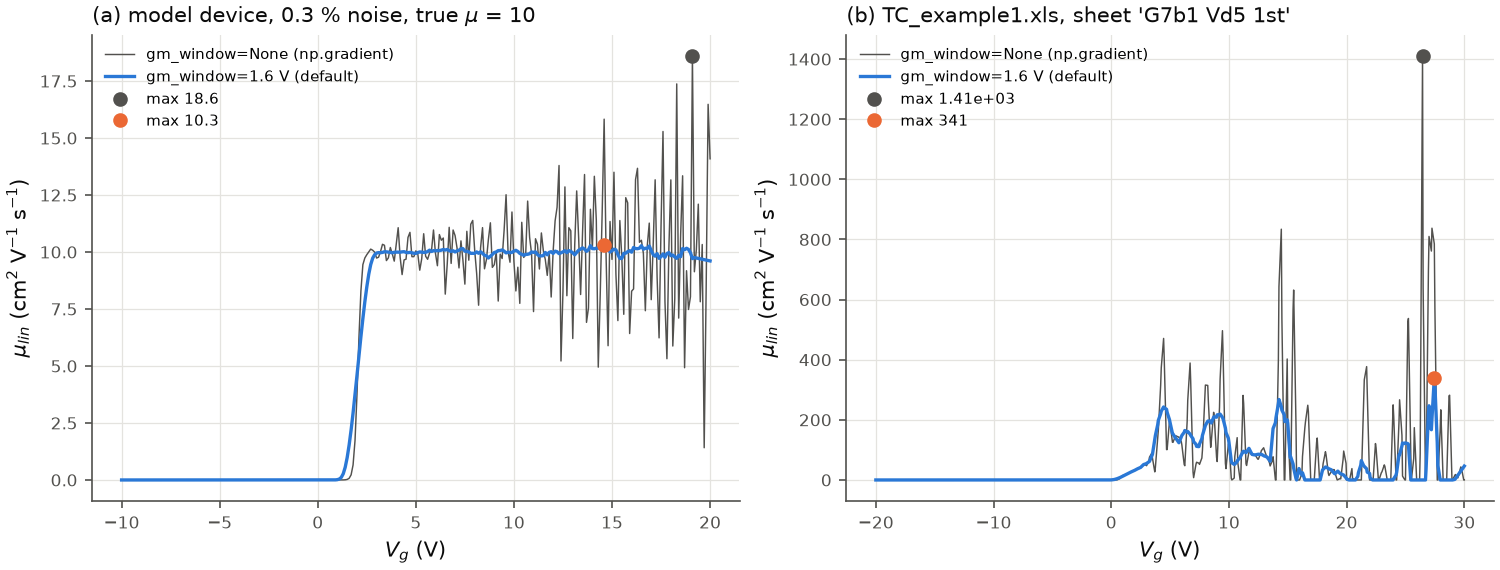
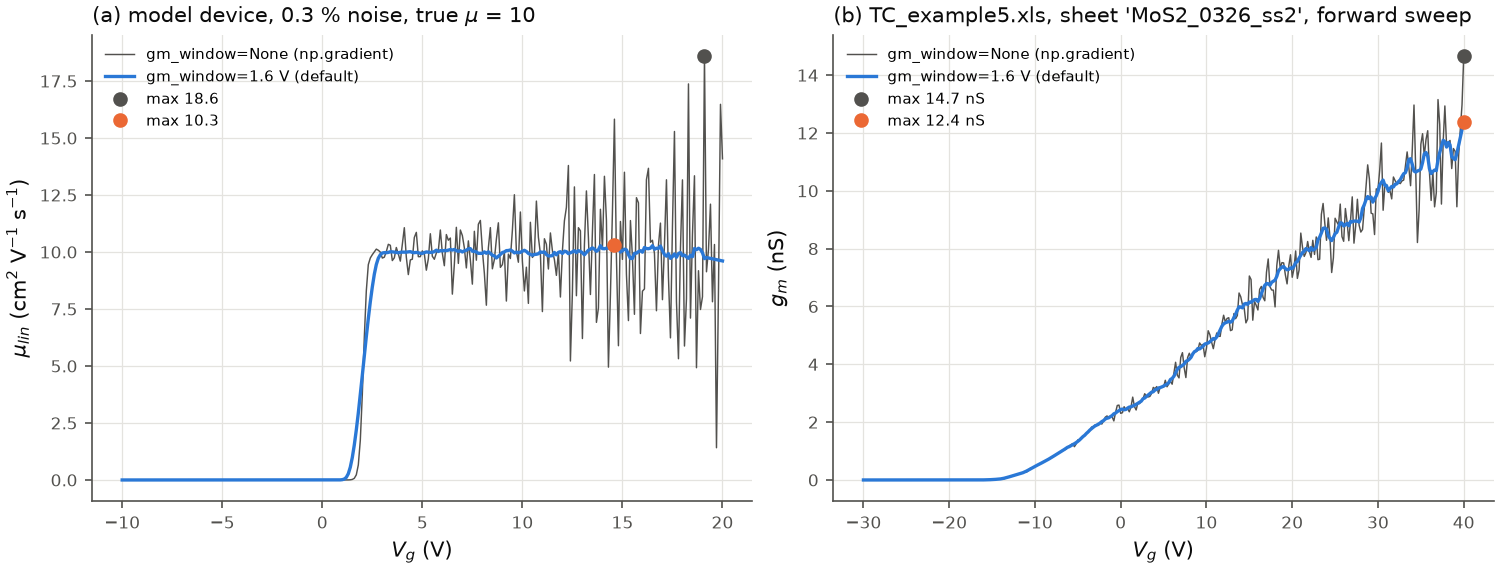
Resolve the open decisions in the documentation, blank the xls owner string
- changes_from_original.md: B8 justified by what it fixes; the decision table
  becomes 'Known limitations of the default rules' (L1-L8) with the option and
  the documenting page for each; cross-references updated
- gm_smoothing figure: panel (b) shows a well-behaved measured MoS2 curve
- examples/data/*.xls: owner name in the WRITEACCESS record replaced by spaces
  (cell contents unchanged)

diff --git a/docs/figures/make_mobility.py b/docs/figures/make_mobility.py
@@ -6,7 +6,7 @@ import matplotlib.pyplot as plt
 import numpy as np
 
 from common import DATA, DEVICE, INK, INK_2, MU, SERIES, linear_curve, saturation_curve, save, style_axes
-from transistor_iv import TransferSettings, analyze_transfer, read_clarius_transfer, read_conditions
+from transistor_iv import TransferSettings, analyze_transfer, read_clarius_transfer
 
 
 @dataclass
@@ -14,8 +14,9 @@ class AppConfig:
     noise_rel: float = 0.003
     seed: int = 3
     gm_window: float = 1.6       # V, the default
-    real_file: str = "TC_example1.xls"
-    real_sheet: int = 1
+    real_file: str = "TC_example5.xls"   # MoS2 FET: smooth on-state, visible derivative noise
+    real_sheet: int = 38
+    real_segment: int = 1                # forward sweep -30 -> 40 V
     # window study printed by study(): random model devices, 0.2 V steps from -20 to 30 V, V_d = 0.1 V
     study_devices: int = 60
     study_windows: tuple = (None, 1.6, 3.0)
@@ -27,18 +28,24 @@ def fig_gm(cfg):
     raw = analyze_transfer(c, DEVICE, TransferSettings(gm_window=None))
     smo = analyze_transfer(c, DEVICE, TransferSettings(gm_window=cfg.gm_window))
     real = read_clarius_transfer(DATA / cfg.real_file)[cfg.real_sheet]
-    dev = read_conditions(DATA / "Conditions.xls", eps_r=3.9)[cfg.real_sheet]
-    rr = analyze_transfer(real, dev, TransferSettings(gm_window=None))
-    rs = analyze_transfer(real, dev, TransferSettings(gm_window=cfg.gm_window))
+    rr = analyze_transfer(real, DEVICE, TransferSettings(segment=cfg.real_segment, gm_window=None))
+    rs = analyze_transfer(real, DEVICE, TransferSettings(segment=cfg.real_segment, gm_window=cfg.gm_window))
     fig, ax = plt.subplots(1, 2, figsize=(10, 3.8), constrained_layout=True)
-    for a, r0, r1, title in ((ax[0], raw, smo, f"(a) model device, {cfg.noise_rel * 100:g} % noise, true $\\mu$ = {MU:g}"),
-                             (ax[1], rr, rs, f"(b) {cfg.real_file}, sheet '{real.name}'")):
-        a.plot(r0.curves["v_g"], r0.curves["mu_lin"], color=INK_2, linewidth=0.7, label="gm_window=None (np.gradient)")
-        a.plot(r1.curves["v_g"], r1.curves["mu_lin"], color=SERIES[0], linewidth=1.6, label=f"gm_window={cfg.gm_window:g} V (default)")
-        a.plot(r0.v_gm_max, r0.mu_fe_max, "o", color=INK_2, ms=6, label=f"max {r0.mu_fe_max:.3g}")
-        a.plot(r1.v_gm_max, r1.mu_fe_max, "o", color=SERIES[1], ms=6, label=f"max {r1.mu_fe_max:.3g}")
-        style_axes(a, "$V_g$ (V)", r"$\mu_{lin}$ (cm$^2$ V$^{-1}$ s$^{-1}$)", title)
-        a.legend(fontsize=7, frameon=False, loc="upper left")
+    a = ax[0]
+    a.plot(raw.curves["v_g"], raw.curves["mu_lin"], color=INK_2, linewidth=0.7, label="gm_window=None (np.gradient)")
+    a.plot(smo.curves["v_g"], smo.curves["mu_lin"], color=SERIES[0], linewidth=1.6, label=f"gm_window={cfg.gm_window:g} V (default)")
+    a.plot(raw.v_gm_max, raw.mu_fe_max, "o", color=INK_2, ms=6, label=f"max {raw.mu_fe_max:.3g}")
+    a.plot(smo.v_gm_max, smo.mu_fe_max, "o", color=SERIES[1], ms=6, label=f"max {smo.mu_fe_max:.3g}")
+    style_axes(a, "$V_g$ (V)", r"$\mu_{lin}$ (cm$^2$ V$^{-1}$ s$^{-1}$)",
+               f"(a) model device, {cfg.noise_rel * 100:g} % noise, true $\\mu$ = {MU:g}")
+    a.legend(fontsize=7, frameon=False, loc="upper left")
+    a = ax[1]
+    a.plot(rr.curves["v_g"], rr.curves["gm"] * 1e9, color=INK_2, linewidth=0.7, label="gm_window=None (np.gradient)")
+    a.plot(rs.curves["v_g"], rs.curves["gm"] * 1e9, color=SERIES[0], linewidth=1.6, label=f"gm_window={cfg.gm_window:g} V (default)")
+    a.plot(rr.v_gm_max, rr.gm_max * 1e9, "o", color=INK_2, ms=6, label=f"max {rr.gm_max * 1e9:.3g} nS")
+    a.plot(rs.v_gm_max, rs.gm_max * 1e9, "o", color=SERIES[1], ms=6, label=f"max {rs.gm_max * 1e9:.3g} nS")
+    style_axes(a, "$V_g$ (V)", "$g_m$ (nS)", f"(b) {cfg.real_file}, sheet '{real.name}', forward sweep")
+    a.legend(fontsize=7, frameon=False, loc="upper left")
     save(fig, "gm_smoothing")
 
 

diff --git a/docs/changes_from_original.md b/docs/changes_from_original.md
@@ -32,7 +32,7 @@ regenerates those reference results from a copy of the original script. See [tes
 | B5 | the gap filling inserted a point whenever a gap exceeded 0.2 V, also by float round-off | a point within 1 % of a step of the next data point is not inserted | single-precision V_g (0.2000000x V) created points 3e-9 to 1e-6 V before the next one, whose round-off dominated the derivatives | TC_example5: 182 of 533 grid points affected; `vth_d2` moved by a median 36 V (it sat on round-off spikes), `vth_interpol` by 0.9 to 1.6 V (median), `vth_global` 0.6 to 0.7 V, SS by up to 85 % on single curves, mu_fe_max by a median 3 to 4 % (up to 45 %); TC_example2 (26 points): small changes on several curves, up to 33 V in `vth_sqrt` and 39 V in `vth_d2` on one curve each |
 | B6 | fit windows of `LINEAR_WINDOW_FOR_VTH` volts (and the 3 V search extension) converted to points with the nominal 0.2 V step | converted with the mean spacing of the actual grid | the parameter is documented in volts; with 0.25 V data (grid spacing alternating 0.2/0.05 V) the "5 V" window covered 3.1 V, on the 0.1 to 0.5 V list sweep 3 V | TC_example1: `vth_interpol` median 0.38 V (up to 8.3 V), `vth_global` 0.45 V, `vth_sqrt` 0.42 V (up to 68 V on one curve), `mu_sat_sqrt` 13 %; TC_example2: 0.04 to 0.16 V (median) |
 | B7 | SS region slice `[start:end]` dropped the last point of the region | `[start:end+1]` | off-by-one (the figure of the region used the inclusive end); a one-point region gave an empty array | none |
-| B8 | mu_FE,max = maximum of mu_lin from an unsmoothed `np.gradient` of the exactly interpolated current | g_m from local quadratic fits over `gm_window` = 1.6 V (Savitzky-Golay, 9 points on a 0.2 V grid); `gm_window=None` restores the unsmoothed derivative | the maximum of a noisy derivative selects the largest noise excursion and inflates mu_FE,max (classified as a bug by the earlier review; see D8) | mu_fe_max, with B5 applied: TC_example1 a median 2.7 x lower (up to 5.1 x, spiky on-currents), TC_example2 1.3 %, TC_example5 2 to 3 % (alone, without B5: 1.5 % and 6 to 7 %); also `gm_max`, `v_gm_max`, `vth_gm_tangent` |
+| B8 | mu_FE,max = maximum of mu_lin from an unsmoothed `np.gradient` of the exactly interpolated current | g_m from local quadratic fits over `gm_window` = 1.6 V (Savitzky-Golay, 9 points on a 0.2 V grid); `gm_window=None` restores the unsmoothed derivative | mu_FE,max is meant to be the maximum of the mobility curve, but the maximum of an unsmoothed derivative of the exactly interpolated (noisy) current selects the largest noise excursion, so the reported value is not the mobility maximum; the 1.6 V window removes point-to-point noise while keeping a peaked g_m within a few per cent (see [transconductance](transconductance_and_on_off.md#transconductance)) | mu_fe_max, with B5 applied: TC_example1 a median 2.7 x lower (up to 5.1 x, spiky on-currents), TC_example2 1.3 %, TC_example5 2 to 3 % (alone, without B5: 1.5 % and 6 to 7 %); also `gm_max`, `v_gm_max`, `vth_gm_tangent` |
 | B9 | V_d from the Settings block whenever the drain `Step` is `N/A`, the DrainV column only as fallback | the DrainV column when present (constant within 1 mV or 1 %), with a warning if the Settings block disagrees | the column is the applied bias | one sheet of TC_example2 (Settings 20 V, column and sheet name 10 V): mu_fe_max x 2 |
 | B10 | `results.csv` written with `np.savetxt(delimiter=",")` | written with pandas (CSV quoting) | sheet names with commas (`ND2515(2,6)Vd10 2nd`) shifted the columns | TC_example2 table readable |
 
@@ -53,8 +53,8 @@ regenerates those reference results from a copy of the original script. See [tes
 | O5 | `cc_interpolation` | `"linear"` in I_d | `"log"` in log10\|I_d\| | the current is exponential near a subthreshold criterion |
 | O6 | `d2_window` | `None`: `np.gradient` twice | local quadratic fits over the window | noise; see [threshold voltage](threshold_voltage.md#second-derivative-vth_d2) |
 | O7 | `diagnostics` | off | regime flags (`flag_linear_regime`, `flag_saturation`, `flag_window_at_end`) and window sensitivities (`*_sens`: change when the windows are halved and doubled) | checks the validity conditions of each formula |
-| O8 | `mobility_vth` | `"vth_interpol"` for the point-wise mu_eff and mu_sat | any other V_th method | `vth_interpol` is a linear-regime value and fails on concave curves (D9) |
-| O9 | `gm_window=None` | (B8 is the default) | the original unsmoothed g_m | comparison with earlier results |
+| O8 | `mobility_vth` | `"vth_interpol"` for the point-wise mu_eff and mu_sat | any other V_th method | `vth_interpol` is a linear-regime value and fails on concave curves (L7) |
+| O9 | `gm_window=None` | (B8 is the default) | the original unsmoothed g_m | comparison with results of the original scripts |
 
 ## Design changes
 
@@ -74,33 +74,33 @@ regenerates those reference results from a copy of the original script. See [tes
 | C12 | options `DENOISE_CURRENT` (Gaussian filter and resampling), `REMOVE_OUTLIERS` (g_m outlier removal), `ANALYZE_*` switches, plot settings | not carried over | superseded by `gm_window` and `spline_smoothing`; functions are called individually; matplotlib settings belong to the caller |
 | C13 | table names `Vth_current`, ..., `u_FE(max)`; files `TransferCurve.csv`, `SubthresholdSwing.csv`, `MobilityFE.csv` (curves in ascending V_g) | `vth_current`, ..., `mu_fe_max`; `transfer_curves.csv`, `subthreshold_swing.csv`, `mobility_fe.csv` (interpolated curves in on-direction order, i.e. descending V_g for p-type) | Python identifiers; mapping in [batch processing](batch_processing.md#columns-of-resultscsv) |
 | C14 | ties between equal floating-point scores resolved by loop order | resolved towards the lowest V_g everywhere, as the original's loops did | identical results; stated for completeness |
-| C15 | no plausibility notes | notes (values unchanged) when \|I_d\| is not larger at the on end than at the off end (`polarity`), when SS was taken above 1 % of I_on (`ss_on_state`), when the `vth_interpol` window starts above the g_m maximum (`vth_interpol_window`), and when a fit window was truncated at the end of the sweep | the default rules can return meaningless numbers on unsuitable curves (D9, D10) |
+| C15 | no plausibility notes | notes (values unchanged) when \|I_d\| is not larger at the on end than at the off end (`polarity`), when SS was taken above 1 % of I_on (`ss_on_state`), when the `vth_interpol` window starts above the g_m maximum (`vth_interpol_window`), and when a fit window was truncated at the end of the sweep | the default rules can return meaningless numbers on unsuitable curves (L7, L8) |
 
 ## Additions
 
 `vth_gm_tangent` (tangent at maximum g_m, a seventh threshold voltage next to the original
-six); D_it = (C_i/q)[SS/(ln(10) k_B T/q) - 1] in cm⁻² eV⁻¹, NaN below the thermionic limit
-(an earlier specification of this formula was not the standard one); hysteresis analysis
+six); D_it = (C_i/q)[SS/(ln(10) k_B T/q) - 1] in cm⁻² eV⁻¹, NaN below the thermionic limit;
+hysteresis analysis
 (`analyze_hysteresis`: threshold shift for every method, N_trap, loop area);
 `fe_mobility_from_sqrt_fit` (mu_FE at a stated V_g from the square-root fit) and `gm_at`;
 `ss_decade_span`, `ss_current_window`, `robust_off_level`; `on_resistance` and
 `summarize_output`; CSV readers and writer; the synthetic compact model
 `transistor_iv.synthetic`.
 
-## For the author's decision
+## Known limitations of the default rules
 
-These defaults follow the original scripts but are physically questionable, or are choices
-made in this rebuild. Each is documented as a pitfall on its page.
+The defaults below are the original scripts' rules and are kept. Each has a known
+limitation on some curves; an option addresses it, and the page in the last column documents
+the pitfall. Where the package can detect the situation, `TransferResult.notes` says so
+(values unchanged).
 
-| # | item | issue | current default | possible change |
+| # | default rule (original, kept) | limitation | option that addresses it | documented in |
 |---|---|---|---|---|
-| D1 | `vth_logderivative` | the steepest subthreshold point is not a threshold voltage (it lies below the strong-inversion threshold: 1.6 V for a model V_th of 2 V) | reported as a V_th | rename (e.g. "turn-on voltage") or drop from the V_th set |
-| D2 | `ss_floor = 60` mV/dec | hides real sub-60 swings and can report a value far above the true one (45 mV/dec model device: 118.9 reported) | 60 | `None`, or the thermal limit at `temperature` |
-| D3 | linear extrapolations report the intercept | in the linear regime the intercept is V_th + V_d/2; with V_d = 5 to 10 V (TC_example1/2) that is 2.5 to 5 V | intercept (`vd_correction=False`) | `vd_correction=True` |
-| D4 | regime validity | `vth_sqrt` and `mu_sat_sqrt` are computed in the linear regime too (e.g. -37 V on a TC_example2 curve); `mu_fe_max` applies the linear formula at V_d = 5 to 10 V; the point-wise mu_eff and mu_sat use the linear-regime `vth_interpol` | computed without checks | `diagnostics=True` by default, or NaN outside the regime |
-| D5 | I_off = smallest positive \|I_d\| | the deepest noise sample, not the off level (two orders of magnitude in the [on/off example](transconductance_and_on_off.md#onoff-ratio)) | `"min"` | `"robust"` |
-| D6 | unsmoothed second derivative | on noisy data the maximum is a noise peak in the on-state (bundled TC_example2 first sheet: a spike at 18.4 V) | `d2_window=None` | `d2_window` of about 1 V |
-| D7 | B6 (window in volts via the mean grid spacing) | classified as a bug fix; on list sweeps with changing steps a window is still a fixed number of grid points | mean spacing | please confirm the classification |
-| D8 | B8 (g_m smoothing on by default, `gm_window = 1.6` V) | the original computes what it states (the maximum of `np.gradient`); smoothing changes the estimator, so this can also be seen as a design change. The window was chosen here (9-point Savitzky-Golay on 0.2 V steps); wider windows remove more noise but flatten a peaked g_m (-4 % at 1.6 V, -8 % at 3 V for mobility degradation theta = 0.05 1/V) | smoothing on, 1.6 V | `gm_window=None` as default (the original), or another window |
-| D9 | `vth_interpol` on concave curves | with mobility degradation the most linear window moves into the on-state and the intercept drops far below V_th (model, V_th = 2 V: -0.3 V at theta = 0.01 1/V, -2.2 V at 0.02, -6.5 V at 0.05; `vth_global` and `vth_gm_tangent` stay within 0.2 V); mu_eff and mu_sat inherit it | kept, with the `vth_interpol_window` note | a different window rule, or `mobility_vth="vth_gm_tangent"` |
-| D10 | subthreshold region = longest run of grid points | on the 0.2/0.05 V grid of 0.25 V data, single dips of the log slope can split the real subthreshold run, and the longest run then lies in the on-state: TC_example1 `G7d1 Vd5 1st` gives SS = 3464 mV/dec (also in the original; 205 mV/dec with `grid_step=None`, 107.5 with `ss_method="decade_span"`) | kept, with the `ss_on_state` note | `grid_step=None` for data with steps of 0.2 V or more, or merge runs separated by single points |
+| L1 | `vth_logderivative`: V_g of the steepest log slope, reported with the threshold voltages | the steepest subthreshold point lies below the strong-inversion threshold (1.6 V for a model V_th of 2 V); it is a turn-on marker | compare with the other methods; `vth_current` for a subthreshold criterion | [threshold voltage](threshold_voltage.md#maximum-log-slope-vth_logderivative) |
+| L2 | `ss_floor = 60` mV/dec | hides real sub-60 swings and can report a value far above the true one (45 mV/dec model device: 118.9 reported) | `ss_floor=None`, or the thermal limit at `temperature` | [subthreshold swing](subthreshold_swing.md#pitfalls) |
+| L3 | linear extrapolations report the intercept | in the linear regime the intercept is V_th + V_d/2; with V_d = 5 to 10 V (TC_example1/2) that is 2.5 to 5 V | `vd_correction=True` | [threshold voltage](threshold_voltage.md#the-v_d2-correction-option) |
+| L4 | every formula is evaluated for every curve | `vth_sqrt` and `mu_sat_sqrt` are computed in the linear regime too (e.g. -37 V on a TC_example2 curve); `mu_fe_max` applies the linear formula at V_d = 5 to 10 V; the point-wise mu_eff and mu_sat use the linear-regime `vth_interpol` | `diagnostics=True` (regime flags), `mobility_vth` | [mobility](mobility.md#validity-and-pitfalls) |
+| L5 | I_off = smallest positive \|I_d\| | the deepest noise sample, not the off level (two orders of magnitude in the [on/off example](transconductance_and_on_off.md#onoff-ratio)) | `off_level="robust"` | [on/off ratio](transconductance_and_on_off.md#onoff-ratio) |
+| L6 | unsmoothed second derivative | on noisy data the maximum is a noise peak in the on-state (bundled TC_example2 first sheet: a spike at 18.4 V) | `d2_window` of about 1 V | [threshold voltage](threshold_voltage.md#second-derivative-vth_d2) |
+| L7 | `vth_interpol`: most linear window starting in or just above the subthreshold region | on concave curves (mobility degradation) the window moves into the on-state and the intercept drops far below V_th (model, V_th = 2 V: -0.3 V at theta = 0.01 1/V, -2.2 V at 0.02, -6.5 V at 0.05; `vth_global` and `vth_gm_tangent` stay within 0.2 V); mu_eff and mu_sat inherit it | compare with `vth_global` / `vth_gm_tangent`; `mobility_vth`; note `vth_interpol_window` | [threshold voltage](threshold_voltage.md#linear-fit-next-to-the-subthreshold-region-vth_interpol) |
+| L8 | subthreshold region = longest run of grid points | on the 0.2/0.05 V grid of 0.25 V data, single dips of the log slope can split the real subthreshold run, and the longest run then lies in the on-state: TC_example1 `G7d1 Vd5 1st` gives SS = 3464 mV/dec (also in the original; 205 mV/dec with `grid_step=None`, 107.5 with `ss_method="decade_span"`) | `grid_step=None` for data with steps of 0.2 V or more, `ss_method`; note `ss_on_state` | [subthreshold swing](subthreshold_swing.md#pitfalls) |

diff --git a/docs/threshold_voltage.md b/docs/threshold_voltage.md
@@ -94,8 +94,8 @@ bends down above threshold; the most linear window is then a nearly straight str
 the on-state, and its intercept lies far below V_th: on the model device -0.3 V, -2.2 V and
 -6.5 V for theta = 0.01, 0.02 and 0.05 1/V (V_th = 2 V), panel (c). `analyze_transfer` adds the
 note `vth_interpol_window` when the window starts above the g_m maximum; compare with
-`vth_global` and `vth_gm_tangent`. (Listed for the author's decision in
-[changes_from_original.md](changes_from_original.md), D9.)
+`vth_global` and `vth_gm_tangent`. (Known limitation L7 in
+[changes_from_original.md](changes_from_original.md#known-limitations-of-the-default-rules).)
 
 *Wide region.* The region criterion (0.040 dec/V) is not strictly subthreshold: in the
 linear regime the log slope above threshold is 1/[ln(10)(V_g - V_th - V_d/2)], which
@@ -168,8 +168,8 @@ threshold 10^-1.4 dec/V and the maximum.*
 below the strong-inversion threshold. It is a reproducible turn-on marker, but not a
 threshold voltage in the sense of the other methods. It is also different from the
 "transconductance-to-current ratio" method, which takes the minimum (negative peak) of the
-derivative of g_m/I_d. (This point is listed for the author's decision in
-[changes_from_original.md](changes_from_original.md).)
+derivative of g_m/I_d. (Known limitation L1 in
+[changes_from_original.md](changes_from_original.md#known-limitations-of-the-default-rules).)
 
 **Pitfalls.** On a nearly exponential subthreshold region the log slope is flat and the
 maximum is set by noise; a step or spike at the exit from the noise floor produces a
@@ -280,7 +280,7 @@ anyway.
 `vth_sqrt_extrapolation(curve, window)`, `elr_correction(vth, v_d)`; all in
 `transistor_iv.transfer`, see [api.md](api.md).
 
-References: A. Ortiz-Conde et al., *A review of recent MOSFET threshold voltage extraction
-methods*, Microelectron. Reliab. 42, 583 (2002); H.-S. Wong et al., *Modeling of
+References: A. Ortiz-Conde et al., Microelectron. Reliab. 42, 583 (2002), a survey of
+threshold-voltage extraction methods; H.-S. Wong et al., *Modeling of
 transconductance degradation and extraction of threshold voltage in thin oxide MOSFETs*,
 Solid-State Electron. 30, 953 (1987).

diff --git a/docs/subthreshold_swing.md b/docs/subthreshold_swing.md
@@ -105,8 +105,8 @@ shortest decade (orange span) and the line fit in 10 pA to 1 nA (green). All thr
   tunnel, impact-ionisation FETs) and measurements below room temperature have a genuine
   SS below 60 mV/dec. With the default floor the point-wise rule can only report values
   >= 60 mV/dec, and it reports the next value above the floor, which can be far from the
-  true one. Use `ss_floor=None` (and `thermal_ss_limit(T)` for the temperature). This
-  default is listed for the author's decision in [changes_from_original.md](changes_from_original.md).
+  true one. Use `ss_floor=None` (and `thermal_ss_limit(T)` for the temperature). Known
+  limitation L2 in [changes_from_original.md](changes_from_original.md#known-limitations-of-the-default-rules).
 
   ![Floor](figures/ss_floor.png)
 
@@ -123,8 +123,8 @@ shortest decade (orange span) and the line fit in 10 pA to 1 nA (green). All thr
   longest run is then a stretch of the on-state, and SS is meaningless (thousands of mV/dec).
   This happens in particular on the alternating 0.2/0.05 V grid of 0.25 V data. `analyze_transfer`
   adds the note `ss_on_state` when SS was taken above 1 % of I_on; then use `grid_step=None`,
-  `ss_sensitivity`, or the decade-span or current-window rule. (A bundled example is listed in
-  [changes_from_original.md](changes_from_original.md), D10.)
+  `ss_sensitivity`, or the decade-span or current-window rule. (A bundled example is
+  given under known limitation L8 in [changes_from_original.md](changes_from_original.md#known-limitations-of-the-default-rules).)
 * **Exit from the noise floor.** A step from the noise floor into the subthreshold
   region (instrument range change, a single spike) can produce a very steep point-wise
   slope at the start of the region. Check `TransferResult.swing.v_range` against the plot.

diff --git a/docs/transconductance_and_on_off.md b/docs/transconductance_and_on_off.md
@@ -22,11 +22,14 @@ g_m at a stated gate voltage.
 
 ![gm smoothing](figures/gm_smoothing.png)
 
-*Linear mobility mu_lin = L g_m / (W C_i |V_d|) from the unsmoothed and the smoothed g_m.
-(a) Model device with 0.3 % multiplicative noise (true mu = 10 cm²/Vs): the maximum of
-the unsmoothed curve is 18.6, of the smoothed one 10.3. (b) A measured oxide-TFT curve
-with spiky on-currents (bundled `TC_example1.xls`): 1410 vs 341 (geometry from
-`Conditions.xls`, SiO2 assumed).*
+*Unsmoothed and smoothed transconductance. (a) Linear mobility
+mu_lin = L g_m / (W C_i |V_d|) of the model device with 0.3 % multiplicative noise (true
+mu = 10 cm²/Vs): the maximum of the unsmoothed curve is 18.6, of the smoothed one 10.3.
+(b) g_m of a measured MoS2 FET (bundled `TC_example5.xls`, sheet `MoS2_0326_ss2`, forward
+sweep, V_d = 0.1 V; shown in nS because the file carries no geometry): the smoothed curve
+follows the on-state, the unsmoothed maximum (14.7 nS) is the last noise excursion of the
+sweep, the smoothed one 12.4 nS. On this convex curve both maxima lie at the end of the
+sweep (see the pitfalls below).*
 
 **Why smoothing is the default.** The maximum of a noisy derivative is a biased
 estimator: it picks the largest noise excursion (panel a). This is fix B8 in

diff --git a/docs/mobility.md b/docs/mobility.md
@@ -91,8 +91,8 @@ Device geometry and C_i come from the `Device`; V_d from the curve.
   |V_d| >= |V_g - V_th|. `analyze_transfer` computes every formula for every curve;
   choosing the one that matches the measurement is the user's job.
   `TransferSettings(diagnostics=True)` adds `flag_linear_regime` and `flag_saturation`
-  (see [api.md](api.md#diagnostics--transistor_ivdiagnostics)). This is listed for the author's decision in
-  [changes_from_original.md](changes_from_original.md).
+  (see [api.md](api.md#diagnostics--transistor_ivdiagnostics)). Known limitation L4 in
+  [changes_from_original.md](changes_from_original.md#known-limitations-of-the-default-rules).
 * **Mixed regimes.** The point-wise mu_eff and mu_sat use `vth_interpol`, a linear-regime
   extrapolation (figure, panel b), which also fails on concave curves
   ([threshold voltage](threshold_voltage.md#linear-fit-next-to-the-subthreshold-region-vth_interpol));
